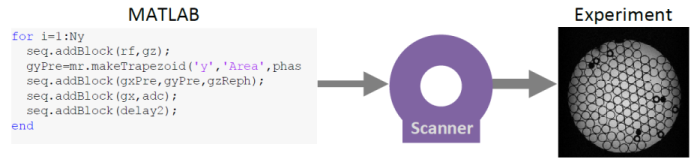
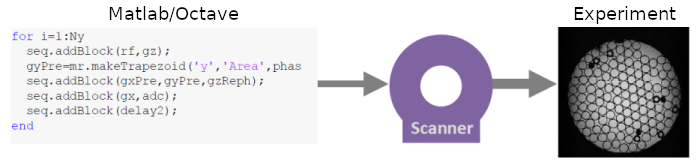
adding prominent Octave mentioning in the main page and the news

Changed region(s): [[0.1504, 0.0309, 0.361, 0.1543], [0.8123, 0.0309, 0.9928, 0.1543]]

diff --git a/index.html b/index.html
@@ -81,17 +81,17 @@ $(function() {
 <div class="title">Introduction </div>  </div>
 </div><!--header-->
 <div class="contents">
-<div class="textblock"><p>Pulseq project is an open source framework for the development and execution of magnetic resonance (MR) pulse sequences for imaging and spectroscopy. In summary, with Pulseq MR sequences can be programmed directly in MATLAB or Python, exported to the Pulseq file format and executed on real hardware.</p>
+<div class="textblock"><p>Pulseq project is an open source framework for the development and execution of magnetic resonance (MR) pulse sequences for imaging and spectroscopy. In summary, with Pulseq MR sequences can be programmed directly in Matlab, Octave or Python, exported to the Pulseq file format and executed on real hardware.</p>
 <p><img src="overview.png" alt="" class="inline"/></p>
-<p>There are two main flavours of Pulseq: <b>MATLAB Pulseq Toolbox</b>, available under the source part of this repository, and <b>Python Pulseq Toolbox</b>, a.k.a. PyPulseq, which is maintained in a separate repository (see below).</p>
+<p>There are two main flavours of Pulseq: <b>Matlab/Octave Pulseq Toolbox</b>, available under the source part of this repository, and <b>Python Pulseq Toolbox</b>, a.k.a. PyPulseq, which is maintained in a separate repository (see below).</p>
 <h2><a class="anchor" id="autotoc_md0"></a>
 Pulseq file format</h2>
 <p>A central contribution of this project is an <b>open file format</b> to compactly describe MR sequences suitable for execution on an MRI scanner. The detailed file specification can be obtained here: <a href="specification.pdf"><code>specification.pdf</code></a> See also Docs tab for further information.</p>
 <h2><a class="anchor" id="autotoc_md1"></a>
 Source code repository</h2>
-<p>The source code in this repository provides the Pulseq toolbox and example implementations of several MR pulse sequences in Pulseq format. The code is divided into <a href="https://github.com/pulseq/pulseq/tree/master/matlab">MATLAB</a> and <a href="https://github.com/pulseq/pulseq/tree/master/src">C++</a> sections. The C++ part is potentially interesting to those seeking to implement their own Pulseq interpreter for a particular scanner.</p>
+<p>The source code in this repository provides the Pulseq toolbox and example implementations of several MR pulse sequences in Pulseq format. The code is divided into <a href="https://github.com/pulseq/pulseq/tree/master/matlab">Matlab/Octave</a> and <a href="https://github.com/pulseq/pulseq/tree/master/src">C++</a> sections. The C++ part contains a standalone programm capable of loading Pulseq files and displaying basic statistics about the nimber of blocks, number of pulses, etc. It is potentially interesting to those seeking to implement their own Pulseq interpreter for a particular scanner.</p>
 <h3><a class="anchor" id="autotoc_md2"></a>
-Matlab sequence examples</h3>
+Matlab/Octave sequence examples</h3>
 <ul>
 <li><a href="writeGradientEcho.html">Gradient echo sequence</a></li>
 <li><a href="writeGradientEcho3D.html">3D Gradient echo sequence</a></li>
@@ -121,8 +121,8 @@ Scanner implementations</h2>
 <h2><a class="anchor" id="autotoc_md4"></a>
 Download source code</h2>
 <h3><a class="anchor" id="autotoc_md5"></a>
-Matlab</h3>
-<p>Both MATLAB and C++ source code is available here: <a href="https://github.com/pulseq/pulseq">https://github.com/pulseq/pulseq</a>. Alternatively, you may consider cloning the git repository directly: </p><pre class="fragment">git clone git@github.com:pulseq/pulseq.git
+Matlab/Octave</h3>
+<p>Both Matlab/Octave and C++ source code is available here: <a href="https://github.com/pulseq/pulseq">https://github.com/pulseq/pulseq</a>. Alternatively, you may consider cloning the git repository directly: </p><pre class="fragment">git clone git@github.com:pulseq/pulseq.git
 </pre> <h3><a class="anchor" id="autotoc_md6"></a>
 Python</h3>
 <p><a href="https://github.com/imr-framework/pypulseq">PyPulseq</a> is an alternative implementaton of the Pulseq sequence toolbox in Python, with a very similar syntax and functionality, originally implemented by Sairam Geethanath and Keerthi Ravi and maintained by an active developer community. It can be clonned from the GutHub site or installed directly via pip. See <a href="https://github.com/imr-framework/pypulseq">PyPulseq</a> GitHub Repository for more details.</p>

diff --git a/news.html b/news.html
@@ -85,9 +85,12 @@ $(function() {
 February 2025: new major release and new Pulseq interpreter release for Siemens</h2>
 <p>We finally reach a release state with our new Pulseq v1.5.0! Amongst the important changes is the support of the new Pulseq file format revision 1.5.0. As you may judge from the second digit change, this is a substantial revision, which now includes updated to the RF pulse format, gradient pulse format and new fields in the ADC object. Additionally, support for the 'soft delay' extension is included, which allows for modifying some timing aspects of the readily exported Pulseq sequences. This release includes both a major update to the Matlab toolbox and is paired with a corresponding Siemens interpreter release. The new Matlab code defaults to the new file format, which is incompatieble with the previous interpreters. However, we also provide a function for exporting the sequences in the old v1.4.1 compatibility mode. The new interpreter provides support for both new v1.5.0 and legacy Pulseq files.</p>
 <h2><a class="anchor" id="autotoc_md9"></a>
+November 2024: experimental Octave support</h2>
+<p>We now provide initial experimental support for Octave as a drop-in FOSS preplacement for Matlab. For now the code is available in the development branch and will be released with the upcoming v1.5.0 release. Please note that not all features are supported by Octave, in particular those related to the interactive graphical presentation of the sequences, but the basic capability of Octave to generate valis Pulseq pulse sequences has been validated.</p>
+<h2><a class="anchor" id="autotoc_md10"></a>
 July 2024: new Pulseq Interpreter release for Siemens</h2>
 <p>We finally reach a release state with our new Pulseq Release v1.4.3! Included are numerous performance improvements and bugfixes, as well as few new features.</p>
-<h2><a class="anchor" id="autotoc_md10"></a>
+<h2><a class="anchor" id="autotoc_md11"></a>
 December 2023: new Pulseq Interpreter release for Siemens</h2>
 <p>Right before the winter break we reach a release state with our new Pulseq Release v1.4.2! Included are numerous performance improvements and bugfixes, as well as few new features. To fully enjoy the wealth of the new features of this release on Siemens MR scanners, an upgrade of the Pulseq Siemens Interpreter Sequence to the corresponding version v1.4.2 is strongly recommended. </p>
 </div></div><!-- contents -->

diff --git a/tutorials.html b/tutorials.html
@@ -82,13 +82,13 @@ $(function() {
 </div><!--header-->
 <div class="contents">
 <div class="textblock"><p>We work constantly on impoving our documentation. One aspect of these activities is to provide step-by-step hands-on introductions and tutorials, both both beginners and advanced users. Below is the list of such resources:</p>
-<h2><a class="anchor" id="autotoc_md13"></a>
+<h2><a class="anchor" id="autotoc_md14"></a>
 Main tutorials repository</h2>
 <p>This <a href="https://github.com/pulseq/tutorials">repository</a> contains a collection of various Pulseq tutorials covering both the most initial aspects and more advanced topics. It currently contains FID, PRESS, GRE, EPI and some non-Cartesian imaging examples alsong with the Matlab source code, raw data examples and sample reconstruction scripts. Visit <a href="https://github.com/pulseq/tutorials">Pulseq Tutorials</a> repository.</p>
-<h2><a class="anchor" id="autotoc_md14"></a>
+<h2><a class="anchor" id="autotoc_md15"></a>
 MR Physics with Pulseq</h2>
 <p>This <a href="https://github.com/pulseq/mr-physics-with-pulseq">repository</a> is based on materials for the Ph.D. student training program of the German Chapter of the ISMRM and is being developed further. In this course, basic and advanced concepts of MR physics are introduced through theoretical lectures by MR experts and followed by the corresponding hands-on exercises. All lecture slides are available as PDFs. The repository is focused on pyPulseq that is configured to run directly in your browser as interactive Notebooks. Visit <a href="https://github.com/pulseq/mr-physics-with-pulseq">MR Physics with Pulseq</a> repository.</p>
-<h2><a class="anchor" id="autotoc_md15"></a>
+<h2><a class="anchor" id="autotoc_md16"></a>
 ISMRM Virtual Meeting Series - November 15-17, 2023</h2>
 <p>This <a href="https://github.com/pulseq/ismrm-virtual-meeting--november-15-17-2023">repository</a> contains materials of the Three-Day ISMRM Virtual Meeting Series held on November 15-17, 2023 dedicated to Vendor-Agnostic Pulse Sequence Programming with Pulseq: From Basics to Advanced Topics. The repository contains the detailed program, meeting materials, presentation slides, tailor-made tutorials and discussion boards. Recoded videos of the presentations are available to the ISMRM members and can be accesses via the ISMRM web site. </p>
 </div></div><!-- contents -->

diff --git a/links.html b/links.html
@@ -82,7 +82,7 @@ $(function() {
 </div><!--header-->
 <div class="contents">
 <div class="textblock"><p>In this page we collect a list of software packages which can read or write Pulseq files ar in any other ways rely on Pulseq. We admit that this list is by far incomplete and welcome you to contact us (preferably via the Discussions section) in case you'd like us to update the list.</p>
-<h2><a class="anchor" id="autotoc_md11"></a>
+<h2><a class="anchor" id="autotoc_md12"></a>
 Open-source software with Pulseq support</h2>
 <table class="markdownTable">
 <tr class="markdownTableHead">
@@ -104,7 +104,7 @@ Open-source software with Pulseq support</h2>
 <tr class="markdownTableRowEven">
 <td class="markdownTableBodyNone">Virtual-Scanner   </td><td class="markdownTableBodyNone">MR simulator   </td><td class="markdownTableBodyNone">import/export   </td><td class="markdownTableBodyNone"><a href="http://github.com/imr-framework/virtual-scanner">http://github.com/imr-framework/virtual-scanner</a>   </td></tr>
 </table>
-<h2><a class="anchor" id="autotoc_md12"></a>
+<h2><a class="anchor" id="autotoc_md13"></a>
 Proprietary software with Pulseq support</h2>
 <table class="markdownTable">
 <tr class="markdownTableHead">

diff --git a/docs.html b/docs.html
@@ -82,10 +82,10 @@ $(function() {
 </div><!--header-->
 <div class="contents">
 <div class="textblock"><p>Here we collect some relevant documents. As for now these are:</p>
-<h2><a class="anchor" id="autotoc_md16"></a>
+<h2><a class="anchor" id="autotoc_md17"></a>
 Main Pulseq file format specification</h2>
 <p>The <a href="specification.pdf"><code>specification</code></a> specpecification contains a concise description of all relevant aspects of the Pulsec file format.</p>
-<h2><a class="anchor" id="autotoc_md17"></a>
+<h2><a class="anchor" id="autotoc_md18"></a>
 Pulseq Times and Shapes</h2>
 <p>This <a href="https://github.com/pulseq/pulseq/tree/master/doc/pulseq_shapes_and_times.pdf">document</a> is the set of slides explaining in detail how the time axis is defined in Pulseq, how the continuous time is converted in discrete time steps, which types of time grids exist and different kinds of time rasters interact. Very important for both accurate pulse sequence design and implementation of Pulseq interpreters on various platforms. </p>
 </div></div><!-- contents -->
